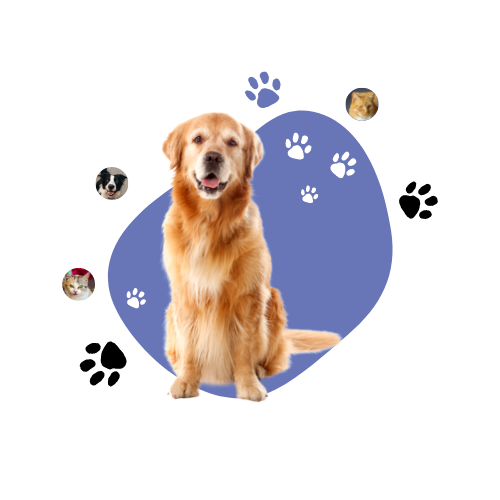
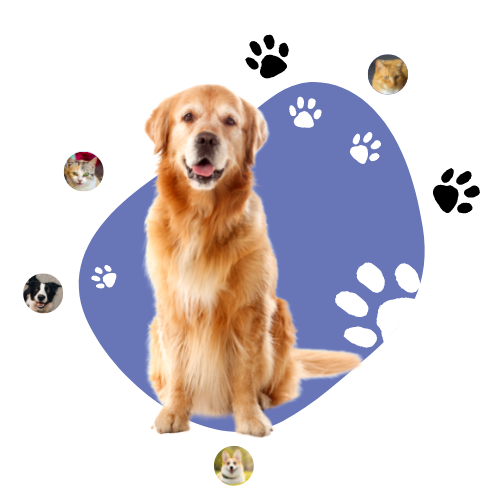
updated pages

Changed region(s): [[0.03, 0.06, 0.96, 0.99], [0.6, 0.36, 0.63, 0.42]]

diff --git a/public/stylesheets/style.css b/public/stylesheets/style.css
@@ -1,16 +1,23 @@
 /* Main Page */
 
+/* Section 1 */
+
 body {
   background-color: #EBF8FF;
   padding: 20px;
   font-family: Lucida 'Lucida Sans', 'Lucida Sans Regular', 'Lucida Grande', 'Lucida Sans Unicode', Geneva, Verdana, sans-serif, Helvetica, sans-serif;
 }
 
-.section2Text {
-  font-size: 25px;
-  text-align: center;
-  width: 60%;
+.justify-content-center {
+  margin-left: 20%
 }
+
+.form {
+  position: relative;
+  left: 65px;
+}
+
+/* Nav Bar */
 
 .navbar {
   background-color: white;
@@ -21,10 +28,6 @@ body {
   width: 25px;
   height: 20px;
   margin-right: 20px;
-}
-
-.justify-content-center {
-  margin-left: 20%
 }
 
 .navbar-toggler {
@@ -47,6 +50,8 @@ body {
   padding: 5px;
 }
 
+/* Buttons */
+
 .loginbutton {
   border-style: none;
   background-color: transparent;
@@ -64,16 +69,6 @@ body {
   justify-content: flex-end;
 }
 
-.form {
-  position: relative;
-  left: 65px;
-}
-
-.borderimg.png {
-    border: 10px solid transparent;
-    padding: 15px;
-    border-image: url(borderimg.png) 30 stretch;
-  }
 
 /* Container */
 
@@ -91,8 +86,9 @@ body {
     display: flex;
   }
 
-  .homePageTitle {
-  font-size: 50px;
+  h1 {
+    font-size: 2.9rem;
+    font-family: sans-serif;
   }
 
   .signupbutton {
@@ -118,6 +114,45 @@ body {
     box-shadow: 0 10px 14px 0 rgba(0,0,0,0.24), 0 17px 50px 0 rgba(0,0,0,0.19);
   }
 
+/* Section 2 */
+
+  .section2Text {
+    font-family: sans-serif;
+    text-align: center;
+    margin-top: 80px;
+    margin-bottom: 80px;
+  }
+
+/* Section 3 */
+
+h2 {
+  display: flex;
+  flex-direction: row-reverse;
+  margin-right: 500px;
+  margin-top: -30%;
+}
+
+.section3Text {
+  font-family: sans-serif;
+  margin-top: 2%;
+  margin-left: 55%;
+  width: 35%;
+}
+
+
+/* Footer */
+
+.footer {
+  justify-content: space-between;
+  margin-top: 65%;
+}
+
+.footerTitle {
+  color: black;
+  display: flex;
+  flex-direction: row;
+}
+
 
 /*
 .titlePaw {
@@ -138,7 +173,8 @@ body {
 }
 */
 
-/* Image Home Page */
+/* Images Home Page */
+
 .logonew {
   margin-left: 30px;
   margin-right: 30px;
@@ -148,15 +184,29 @@ body {
 .homePageImg {
   display: flex;
   justify-content: flex-end;
-  margin-top: -230px;
-  margin-right: 120px;
+  margin-top: -220px;
+  margin-right: 100px;
+}
+
+.homePageImg2 {
+  display: flex;
+  justify-content: flex-start;
+  margin-top: 50px;
+  margin-left: 50px;
+  
 }
 
 .navImg {
   width: 80px;
   height: 70px;
-  margin-top: -40px;
+  margin-top: -45px;
   margin-left: -19px;
+}
+
+.borderimg.png {
+  border: 10px solid transparent;
+  padding: 15px;
+  border-image: url(borderimg.png) 30 stretch;
 }
 
 
@@ -244,7 +294,7 @@ img.nomin {
   z-index: 1;
     position: relative;
     left: 30%;
-    bottom: 507px;
+    bottom: 570px;
     max-width: 10%;
 }
 
@@ -280,7 +330,7 @@ img.nomin2 {
   z-index: 1;
   position: relative;
   left: 30%;
-  bottom: 429px;
+  bottom: 470px;
   max-width: 10%;
 }
 
